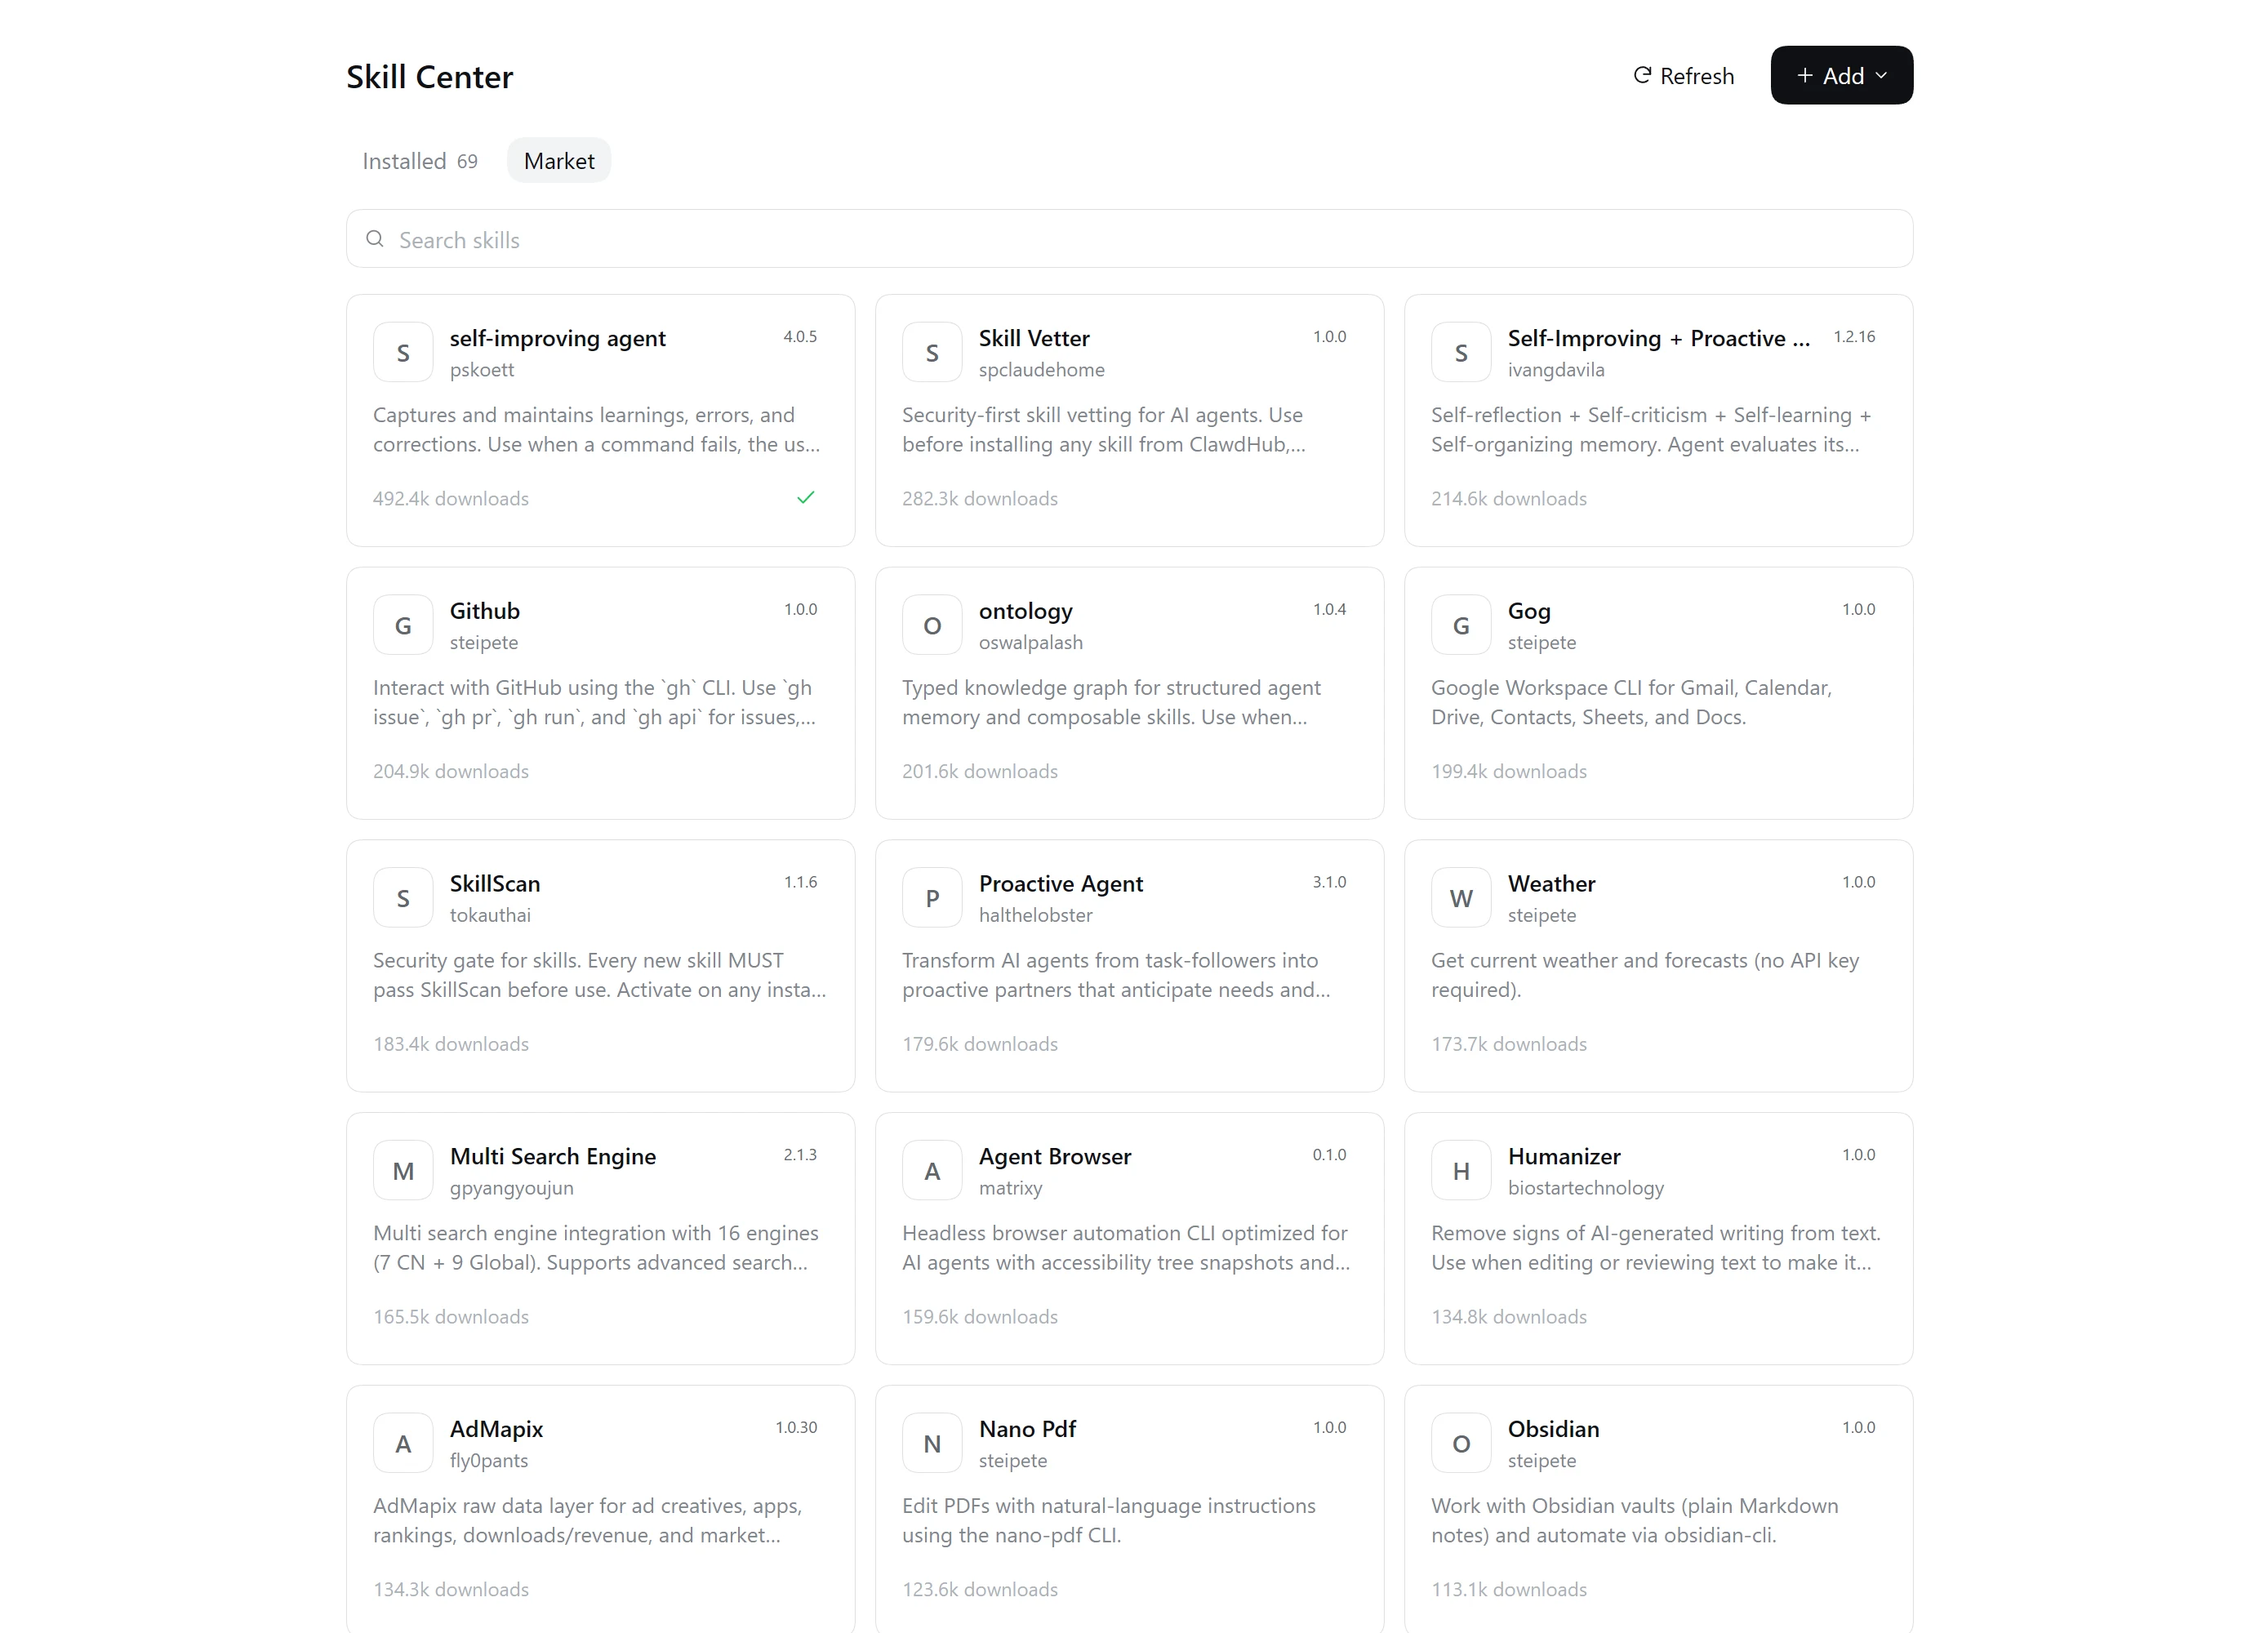
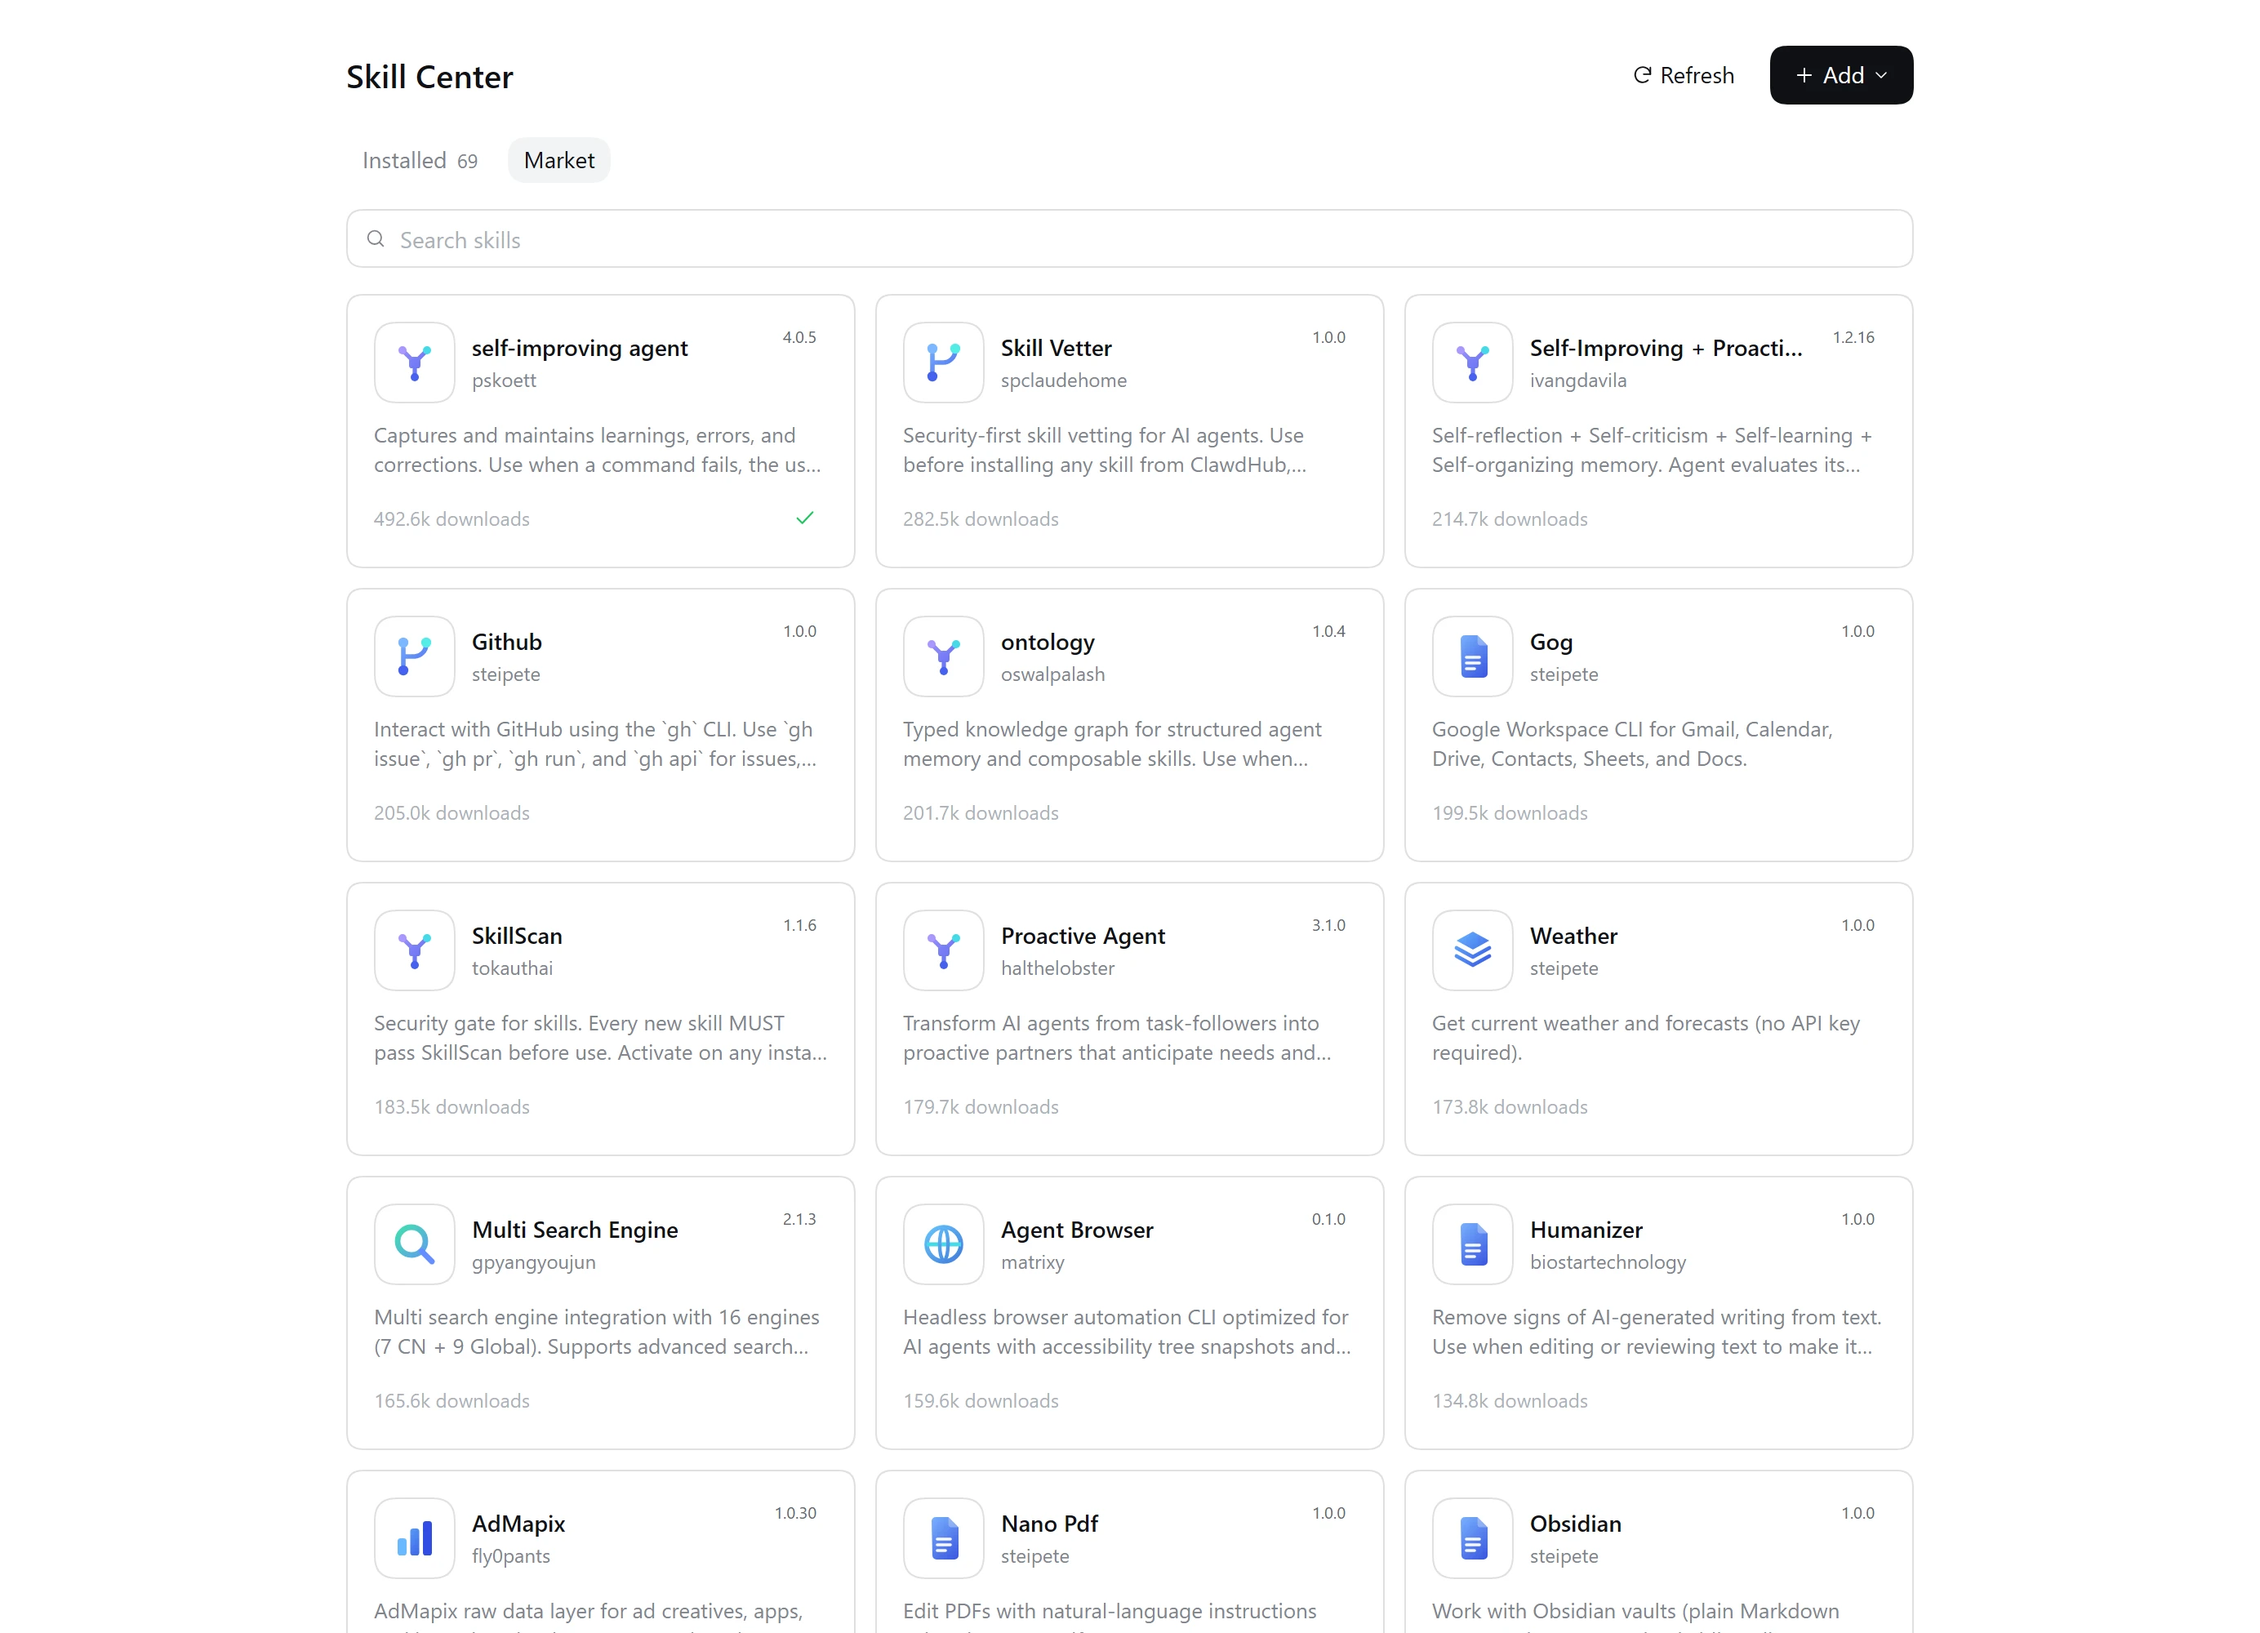
📚 docs: 补充中英技能图标演示截图

diff --git a/README.en.md b/README.en.md
@@ -9,7 +9,7 @@
 <br>
 
 <div align="center" class="text-center">
-  <a href="https://www.npmjs.com/package/@double-coding/dsh-skill-center"><img alt="npm 0.2.0" src="./assets/readme/badges/npm.svg"></a>
+  <a href="https://www.npmjs.com/package/@double-coding/dsh-skill-center"><img alt="npm 0.2.1" src="./assets/readme/badges/npm.svg"></a>
   <a href="https://github.com/double-coding-lab/dsh-skill-center"><img alt="GitHub: double-coding-lab/dsh-skill-center" src="./assets/readme/badges/github.svg"></a>
   <a href="https://github.com/double-coding-lab/dsh-skill-center/blob/main/LICENSE"><img alt="MIT" src="./assets/readme/badges/mit.svg"></a>
   <img alt="DSH 0.2.x" src="./assets/readme/badges/dsh.svg">
@@ -31,7 +31,11 @@ dsh-skill-center is the skill panel for DeepSeek Harness: list local, shared and
 
 ![The market tab in Skill Center](./assets/readme/panel-en.webp)
 
-The market tab shows the ClawHub download chart with search. You can read the `SKILL.md` body before installing.
+The market tab shows the ClawHub download chart with category artwork on every card. You can search and read the `SKILL.md` body before installing.
+
+![Changing a skill icon in Skill Center](./assets/readme/panel-icon-en.webp)
+
+The detail page can upload an image, pick a built-in glyph or reset to default; overrides are stored in the local ledger.
 
 ## What it does
 

diff --git a/README.md b/README.md
@@ -9,7 +9,7 @@
 <br>
 
 <div align="center" class="text-center">
-  <a href="https://www.npmjs.com/package/@double-coding/dsh-skill-center"><img alt="npm 0.2.0" src="./assets/readme/badges/npm.svg"></a>
+  <a href="https://www.npmjs.com/package/@double-coding/dsh-skill-center"><img alt="npm 0.2.1" src="./assets/readme/badges/npm.svg"></a>
   <a href="https://github.com/double-coding-lab/dsh-skill-center"><img alt="GitHub: double-coding-lab/dsh-skill-center" src="./assets/readme/badges/github.svg"></a>
   <a href="https://github.com/double-coding-lab/dsh-skill-center/blob/main/LICENSE"><img alt="MIT" src="./assets/readme/badges/mit.svg"></a>
   <img alt="DSH 0.2.x" src="./assets/readme/badges/dsh.svg">
@@ -31,7 +31,11 @@ dsh-skill-center 是 DeepSeek Harness 的技能面板：查看本机、公共和
 
 ![技能中心的市场页](./assets/readme/panel.webp)
 
-市场页展示 ClawHub 的下载榜，可搜索；安装前能先看 `SKILL.md` 正文。
+市场页展示 ClawHub 的下载榜，技能卡片带分类图标，可搜索；安装前能先看 `SKILL.md` 正文。
+
+![技能中心：更换技能图标](./assets/readme/panel-icon.webp)
+
+详情页可上传图片、选择内置图形或恢复默认，覆盖结果写入本地账本。
 
 ## 主要能力
 
